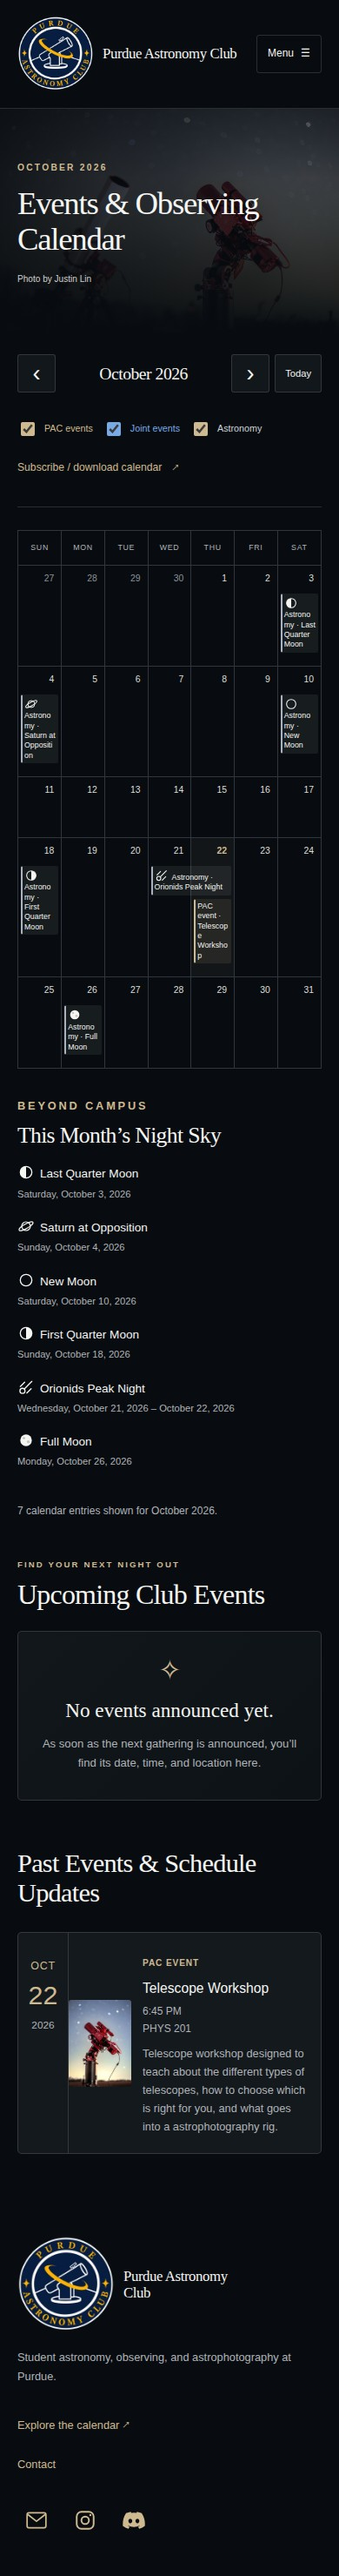
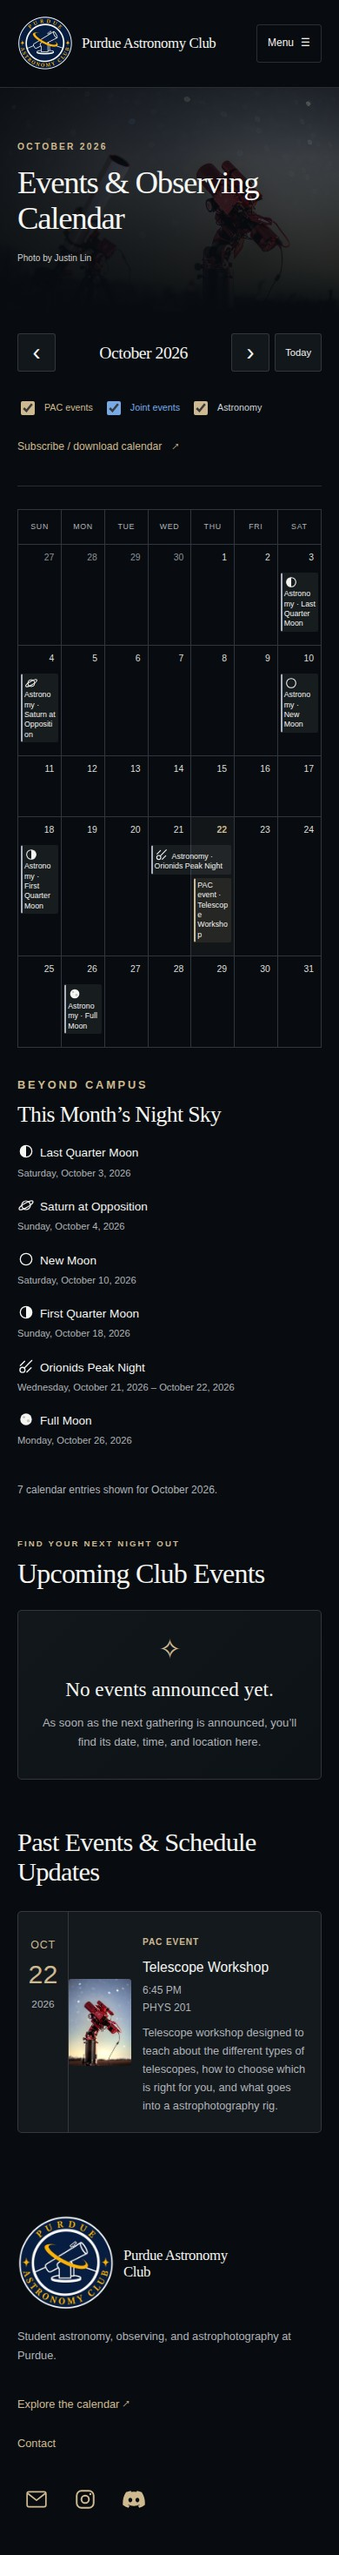
Reduce header badge and balance spacing beside club name

diff --git a/assets/css/main.css b/assets/css/main.css
@@ -1,8 +1,8 @@
 :root{--bg:#080c10;--surface:#12171c;--card:#14191e;--text:#f5f5f2;--muted:#b0b3b8;--gold:#cfb991;--border:rgba(255,255,255,.14);--blue:#78aae8;--serif:Georgia,'Times New Roman',serif;--sans:Inter,-apple-system,BlinkMacSystemFont,'Segoe UI',sans-serif;color-scheme:dark}
-*{box-sizing:border-box}html{scroll-behavior:smooth;scroll-padding-top:24px}body{margin:0;background:var(--bg);color:var(--text);font:16px/1.65 var(--sans);overflow-wrap:break-word}a{color:var(--gold);text-decoration:none;text-underline-offset:5px}a:hover{text-decoration:underline}button,input{font:inherit}button,a{touch-action:manipulation}button{cursor:pointer}button:disabled{cursor:default}button{color:var(--text)}img{display:block;max-width:100%;height:auto}svg{display:block;width:100%;height:100%}h1,h2,h3,p,figure{margin:0}h1,h2,h3{line-height:1.12;font-weight:400}h1,h2{font-family:var(--serif)}h1{font-size:clamp(2.5rem,5.2vw,5rem);letter-spacing:-.035em}h2{font-size:clamp(1.9rem,3vw,2.65rem);letter-spacing:-.025em}h3{font-size:1.15rem;line-height:1.35}p{color:var(--muted)}[hidden]{display:none!important}:focus-visible{outline:2px solid var(--gold);outline-offset:5px;border-radius:2px}::selection{background:var(--gold);color:var(--bg)}.container{width:min(1280px,calc(100% - 96px));margin-inline:auto}.section{padding-top:72px;padding-bottom:72px}.eyebrow{text-transform:uppercase;color:var(--gold);font-size:.71rem;font-weight:600;letter-spacing:.22em}.muted{color:var(--muted)}.lead{font-size:1.2rem;max-width:690px;line-height:1.7}.text-link{font-size:.88rem;display:inline-flex;align-items:center;gap:12px;min-height:44px}.button-row{display:flex;flex-wrap:wrap;gap:16px}.button{min-height:48px;display:inline-flex;align-items:center;justify-content:center;gap:18px;padding:12px 23px;background:var(--gold);border:1px solid var(--gold);color:#080c10;font-size:.87rem;font-weight:600;border-radius:3px;text-align:center}.button:hover{background:#e0cba4;text-decoration:none}.button-outline{background:transparent;color:var(--text);border-color:var(--gold)}.button-outline:hover{background:rgba(207,185,145,.1)}.sr-only{position:absolute;width:1px;height:1px;padding:0;margin:-1px;overflow:hidden;clip:rect(0,0,0,0);white-space:nowrap;border:0}.skip-link{position:fixed;top:-100px;left:20px;background:var(--gold);color:var(--bg);padding:12px 24px;z-index:100}.skip-link:focus{top:12px}.site-header{position:relative;z-index:5;border-bottom:1px solid var(--border);background:#080c10}.home .site-header{background:transparent;border-color:rgba(255,255,255,.09)}.header-inner{min-height:92px;display:flex;align-items:center;justify-content:space-between;gap:24px}.brand{display:flex;align-items:center;gap:15px;color:var(--text);font:1.42rem/1.15 var(--serif);letter-spacing:-.025em}.brand:hover{text-decoration:none}.brand-mark{display:block;flex:none;width:88px;height:88px}.brand-mark img{width:100%;height:100%;object-fit:contain}#main-nav{display:flex;gap:30px}#main-nav a{display:flex;align-items:center;min-height:44px;font-size:.88rem;color:#e9e9e5}#main-nav a[aria-current]{color:var(--gold);text-decoration:underline}.menu-toggle{background:none;border:1px solid var(--border);border-radius:3px;padding:8px 12px;min-height:44px}.hero{position:relative;isolation:isolate;margin-top:-93px;min-height:690px;padding-top:93px;display:flex;align-items:center}.hero-image,.hero-shade{position:absolute;inset:0;width:100%;height:100%;z-index:-2}.hero-image{object-fit:cover;object-position:68% center}.hero-shade{z-index:-1;background:linear-gradient(90deg,rgba(4,8,11,.6),rgba(4,8,11,.1) 62%),linear-gradient(0deg,#080c10,transparent 18%)}.hero-content{padding-top:46px;padding-bottom:68px}.gold-rule{display:block;height:1px;width:35px;background:var(--gold);margin-bottom:25px}.hero .eyebrow{letter-spacing:.39em;font-size:.71rem;margin-bottom:20px}.hero h1{max-width:620px;font-size:clamp(3.3rem,5.4vw,5rem);line-height:1.04}.hero .button-row{margin-top:30px}.club-intro{padding-block:48px 40px;border-bottom:1px solid var(--border)}.club-intro h2{font-size:clamp(1.7rem,3vw,2.2rem);margin-bottom:22px}.club-description{display:grid;grid-template-columns:repeat(3,minmax(0,1fr));gap:24px 36px;font-size:.94rem;line-height:1.75}.club-description>p:first-child{grid-column:1/-1;max-width:900px;font-size:1.12rem;color:var(--text)}.club-description>p:not(:first-child){padding-top:18px;border-top:1px solid var(--border)}.club-intro+#upcoming-events{padding-top:48px}.hero-note{position:absolute;right:48px;bottom:22px;font-size:.62rem;letter-spacing:.08em;color:#c6c8cc}.activities{display:grid;grid-template-columns:repeat(4,1fr);border-bottom:1px solid var(--border);padding:30px 0 38px}.activities>div{text-align:center;border-right:1px solid var(--border);padding:0 14px}.activities>div:last-child{border:0}.activities svg{width:39px;height:39px;color:var(--gold);margin:0 auto 13px}.activities h2{font:500 1rem/1.4 var(--sans);letter-spacing:0}.activities p{font-size:.8rem;margin-top:5px}.section-heading{display:flex;align-items:end;justify-content:space-between;gap:24px;margin-bottom:28px}.section-heading .eyebrow{margin-bottom:9px}.section-heading>a{flex:none}.empty-state{border:1px solid var(--border);border-radius:5px;background:linear-gradient(135deg,#12171c,#0d1216);padding:37px;text-align:center}.empty-star{display:block;color:var(--gold);font-size:32px;line-height:1;margin-bottom:15px}.empty-state h3{font-family:var(--serif);font-size:1.6rem}.empty-state p{max-width:530px;font-size:.91rem;margin:12px auto 3px}.empty-state .text-link{margin-top:7px}.event-grid{display:grid;grid-template-columns:repeat(3,minmax(0,1fr));gap:20px}.event-card{position:relative;display:flex;align-items:stretch;border:1px solid var(--border);background:var(--card);border-radius:5px;overflow:hidden;min-height:180px}.event-date{width:65px;flex:none;border-right:1px solid var(--border);padding:27px 8px;text-align:center;line-height:1.25}.event-date span:first-child{color:var(--gold);text-transform:uppercase;font-size:.78rem;letter-spacing:.06em}.event-date strong{display:block;font-size:1.9rem;font-weight:500;color:var(--gold);margin:5px 0}.event-date span:last-child{color:var(--muted);font-size:.74rem}.event-card-body{padding:22px 18px}.event-card h3{font-size:.98rem;margin:7px 0}.event-card h3 a{color:var(--text)}.event-card-body>p{font-size:.8rem;margin-top:7px}.event-card-body .event-meta{font-size:.75rem}.tag{color:var(--gold);font-size:.63rem;text-transform:uppercase;letter-spacing:.09em;font-weight:600}.event-cover{display:none}.type-joint .tag,.type-joint.eyebrow{color:var(--blue)}.type-astronomy .tag,.type-astronomy.eyebrow{color:#cdd3db}.gallery-feature{background:#10151a;border-top:1px solid var(--border);border-bottom:1px solid var(--border)}.gallery-empty{display:flex;align-items:center;gap:60px;min-height:245px;max-width:850px;margin:auto}.gallery-empty h3{font:2.5rem/1.2 var(--serif);margin:10px 0 14px;letter-spacing:-.02em}.gallery-empty p:not(.eyebrow){font-size:.9rem;max-width:410px}.orbital{width:150px;height:150px;border:1px solid #776e5a;border-radius:50%;flex:none;position:relative;transform:rotate(-25deg)}.orbital:before{content:'';position:absolute;inset:30px -28px;border:1px solid #776e5a;border-radius:50%}.orbital:after{content:'✦';color:var(--gold);position:absolute;top:42px;left:47px;font-size:43px}.gallery-grid{display:grid;grid-template-columns:repeat(3,minmax(0,1fr));gap:24px}.gallery-card{min-width:0;background:var(--surface);border:1px solid var(--border);border-radius:4px;overflow:hidden}.gallery-card img{width:100%;aspect-ratio:4/3;object-fit:cover}.gallery-card a{display:block;color:var(--text)}.gallery-card a:hover{text-decoration:none}.gallery-card a:hover h3{text-decoration:underline}.gallery-caption{padding:22px}.gallery-caption .eyebrow{font-size:.6rem;letter-spacing:.15em}.gallery-caption h3{font-family:var(--serif);font-size:1.5rem;margin:8px 0}.gallery-caption h3 span{float:right}.gallery-caption p{font-size:.8rem}.site-footer{padding:50px 0 0}.footer-main{display:flex;justify-content:space-between;gap:35px;padding-bottom:42px}.footer-main p{font-size:.8rem;margin-top:17px;max-width:330px}.footer-links{display:flex;flex-direction:column;align-items:flex-end;gap:6px;font-size:.8rem}.footer-links a{min-height:32px}.footer-bottom{border-top:1px solid var(--border);display:flex;justify-content:space-between;font-size:.68rem;color:#969ba2;padding:20px 0 25px}.page-shell{min-height:60vh;padding-top:26px;padding-bottom:80px}.breadcrumbs{display:flex;gap:10px;font-size:.72rem;color:var(--muted);margin-bottom:50px}.breadcrumbs a{color:var(--muted)}.page-heading{margin-bottom:44px}.page-heading h1{margin:14px 0 23px}.page-heading .button{margin-top:25px}.prose{max-width:760px}.prose p{margin-bottom:1.3em}.prose h2{font-size:2rem;margin:1.4em 0 .6em}.prose h3{margin:1.4em 0 .6em}.prose ul,.prose ol{padding-left:22px;color:var(--muted)}.prose img{width:100%;border-radius:4px}.prose a{text-decoration:underline}.social-links{display:flex;flex-wrap:wrap;gap:12px;margin-top:28px}.social-link{display:inline-flex;align-items:center;justify-content:center;width:44px;height:44px;color:var(--gold)}.social-link svg{width:26px;height:26px}.social-link:hover{color:var(--text)}.footer-links .social-links{margin-top:8px}.footer-links .social-link{min-height:44px}.plain-card,.officer-card{border:1px solid var(--border);padding:30px;border-radius:4px;background:var(--surface)}.card-grid{display:grid;grid-template-columns:repeat(3,minmax(0,1fr));gap:24px}.plain-card img{width:100%;max-height:200px;object-fit:contain}.officer-card img{aspect-ratio:1;object-fit:cover;width:100%;margin-bottom:25px}.officer-card h2{font-size:1.9rem;margin:10px 0 20px}.officer-card h2 a{color:var(--text)}.news-row{padding:30px 0;border-bottom:1px solid var(--border)}.news-row time{font-size:.75rem;color:var(--gold)}.news-row h2,.news-row h3{margin:12px 0}.photo-grid{columns:2;column-gap:24px}.photo-grid figure{break-inside:avoid;margin-bottom:30px}.photo-grid img{width:100%;border-radius:4px}.photo-grid figcaption{padding:12px 0;font-size:.9rem}.photo-grid figcaption span{font-size:.75rem;color:var(--muted)}.astro-showcase img{width:100%;max-height:750px;object-fit:contain;background:#030507}.astro-showcase figcaption{margin-top:15px;color:var(--muted)}.detail-layout{display:grid;grid-template-columns:1fr 330px;gap:60px;margin-top:40px}.event-detail-heading{max-width:850px}.event-detail-heading h1{margin:15px 0 25px}.detail-facts{padding:27px;background:var(--surface);border:1px solid var(--border);border-radius:4px;align-self:start}.detail-facts h2{font-size:1.65rem}.detail-facts dt{text-transform:uppercase;letter-spacing:.13em;font-size:.63rem;color:var(--gold);margin-top:23px}.detail-facts dd{margin:4px 0;font-size:.9rem}.detail-facts .button{margin-top:16px;width:100%}.detail-facts p{font-size:.78rem;margin-top:16px}.detail-image{border-radius:4px;margin-top:25px;width:100%}.status-notice{padding:18px 22px;margin-top:25px;background:var(--surface);border-left:3px solid var(--gold)}.status-cancelled{opacity:.8}.status-cancelled .tag{color:#eab2a7}.archive-heading{margin-top:55px;margin-bottom:28px}.lightbox{max-width:min(1100px,94vw);max-height:94vh;background:var(--bg);color:var(--text);border:1px solid var(--border);padding:20px}.lightbox::backdrop{background:rgba(0,0,0,.9)}.lightbox img{max-height:73vh;object-fit:contain;margin:auto}.lightbox button{background:var(--surface);border:1px solid var(--border);min-height:44px;padding:8px 18px;display:block;margin:0 0 12px auto}.lightbox p{padding-top:12px;font-size:.85rem}.calendar-banner{position:relative;isolation:isolate;min-height:300px;display:flex;align-items:center;overflow:hidden}.calendar-banner>img,.calendar-banner-shade{position:absolute;inset:0;width:100%;height:100%;object-fit:cover;object-position:68% 45%;z-index:-2}.calendar-banner-shade{z-index:-1;background:linear-gradient(90deg,rgba(8,12,16,.85),rgba(8,12,16,.38)),linear-gradient(0deg,#080c10,transparent 70%)}.calendar-banner .container{padding-top:44px;padding-bottom:44px}.calendar-banner h1{font-size:clamp(2rem,3.5vw,3.3rem);max-width:750px;margin:11px 0 15px}.calendar-banner p{font-size:.9rem}.calendar-banner .eyebrow{font-size:.72rem}.calendar-banner .photo-credit{font-size:.63rem;color:#d0d0cc;margin-top:18px}.calendar-content{padding-top:28px}.calendar-toolbar,.month-navigation,.view-controls{display:flex;align-items:center;gap:10px}.calendar-toolbar{justify-content:space-between;flex-wrap:wrap;margin-bottom:20px}.calendar-toolbar button{min-width:44px;min-height:44px;padding:7px 13px;background:var(--surface);border:1px solid var(--border);border-radius:3px;font-size:.82rem}.calendar-toolbar button:hover{border-color:var(--gold)}.month-navigation h2{font:1.5rem var(--serif);min-width:200px;text-align:center}.month-navigation>button:first-child,.month-navigation>button:nth-child(3){font-size:1.7rem;line-height:1}.view-controls{gap:0}.view-controls button[aria-pressed=true]{background:var(--gold);color:var(--bg)}.calendar-topline{display:flex;align-items:center;justify-content:space-between;gap:15px;flex-wrap:wrap;padding-bottom:23px;border-bottom:1px solid var(--border);margin-bottom:26px}.calendar-filters{border:0;margin:0;padding:0;display:flex;gap:23px;flex-wrap:wrap}.calendar-filters label{font-size:.76rem;min-height:44px;display:flex;align-items:center;gap:8px;cursor:pointer;color:var(--gold)}.calendar-filters .type-joint{color:var(--blue)}.calendar-filters .type-astronomy{color:#cdd3db}.calendar-filters input{width:16px;height:16px;accent-color:var(--gold)}.calendar-filters .type-joint input{accent-color:var(--blue)}.subscribe-link{font-size:.76rem}.calendar-layout{display:grid;grid-template-columns:260px minmax(0,1fr);gap:32px}.calendar-sidebar section+section{margin-top:35px;padding-top:28px;border-top:1px solid var(--border)}.calendar-sidebar h2{font-size:1.6rem;margin:10px 0 18px}.calendar-sidebar p{font-size:.8rem}.calendar-sidebar ul{list-style:none;padding:0;margin:0}.calendar-sidebar li{margin-bottom:18px}.calendar-sidebar li a{display:block;font-size:.85rem;color:var(--text);line-height:1.4}.calendar-sidebar li small{font-size:.7rem;color:var(--muted);display:block;margin-top:4px}.calendar-sidebar .tag{font-size:.59rem}.calendar-sidebar .sky-editorial{white-space:pre-line;margin:15px 0}.calendar-status{font-size:.8rem;color:var(--muted);margin-top:20px}.calendar-help{font-size:.69rem;margin-top:28px;padding-top:18px;border-top:1px solid var(--border)}.calendar-no-events{padding:30px 20px;text-align:center;border:1px solid var(--border)}#calendar{min-width:0;--fc-border-color:#30363d;--fc-page-bg-color:var(--bg);--fc-neutral-bg-color:var(--surface);--fc-today-bg-color:rgba(207,185,145,.06);--fc-list-event-hover-bg-color:var(--card);--fc-event-bg-color:var(--card);--fc-event-border-color:transparent;--fc-event-text-color:var(--text);font-size:.8rem}#calendar .fc-col-header-cell-cushion{font-weight:400;font-size:.7rem;text-transform:uppercase;letter-spacing:.08em;padding:12px 0;color:var(--muted)}#calendar .fc-daygrid-day-number{color:#deded8;padding:6px 8px;font-size:.75rem}#calendar .fc-day-today .fc-daygrid-day-number{color:var(--gold);font-weight:700}#calendar .fc-daygrid-event{border-radius:2px;padding:3px 5px;font-size:.66rem;line-height:1.3;margin:2px 3px;background:rgba(207,185,145,.1);border-left:2px solid var(--gold);white-space:normal;color:var(--gold)}#calendar .fc-event-title{white-space:normal}#calendar .fc-daygrid-event-dot{display:none}#calendar .fc-type-joint{color:var(--blue);border-left-color:var(--blue);background:rgba(120,170,232,.1)}#calendar .fc-type-astronomy{color:#cdd3db;border-left-color:#a9b2be;background:rgba(205,211,219,.08)}#calendar .fc-status-cancelled,#calendar .fc-status-postponed{opacity:.65;text-decoration:line-through}#calendar .fc-daygrid-more-link{font-size:.65rem;padding:3px;color:var(--gold)}#calendar .fc-popover{background:var(--surface);border:1px solid var(--border);max-width:300px}#calendar .fc-popover-header{background:var(--card)}#calendar .fc-list-day-cushion{background:var(--surface);color:var(--text)}#calendar .fc-list-event-title{color:var(--text)}#calendar .fc-list-event-time{max-width:150px;white-space:normal}#calendar .fc-list-event-dot{border-color:var(--gold)}#calendar .fc-list-event.fc-type-joint .fc-list-event-dot{border-color:var(--blue)}#calendar .fc-list-event.fc-type-astronomy .fc-list-event-dot{border-color:#cdd3db}#calendar .fc-list-empty{background:var(--surface);font-size:.85rem}#calendar .fc-list-event-title a{display:block;min-height:44px;padding:6px 0}.fc-description{display:block;font-size:.69rem;font-weight:400;color:var(--muted);margin-top:5px}.agenda-fallback{margin-top:22px}.fallback-event{display:grid;grid-template-columns:230px 1fr;gap:20px;border-bottom:1px solid var(--border);padding:22px 0}.fallback-event>time{font-size:.85rem;color:var(--gold)}.fallback-event h3{margin:8px 0}.fallback-event p{font-size:.85rem}body.poster .site-header,body.poster .site-footer,body.poster .calendar-toolbar,body.poster .calendar-topline,body.poster .calendar-help{display:none}body.poster .calendar-banner{min-height:230px}body.poster .calendar-layout{grid-template-columns:280px minmax(0,1fr)}body.poster .container{width:calc(100% - 100px);max-width:none}body.poster .calendar-sidebar{font-size:1rem}body.poster #calendar{font-size:1rem}body.poster .calendar-content{padding-bottom:35px}
+*{box-sizing:border-box}html{scroll-behavior:smooth;scroll-padding-top:24px}body{margin:0;background:var(--bg);color:var(--text);font:16px/1.65 var(--sans);overflow-wrap:break-word}a{color:var(--gold);text-decoration:none;text-underline-offset:5px}a:hover{text-decoration:underline}button,input{font:inherit}button,a{touch-action:manipulation}button{cursor:pointer}button:disabled{cursor:default}button{color:var(--text)}img{display:block;max-width:100%;height:auto}svg{display:block;width:100%;height:100%}h1,h2,h3,p,figure{margin:0}h1,h2,h3{line-height:1.12;font-weight:400}h1,h2{font-family:var(--serif)}h1{font-size:clamp(2.5rem,5.2vw,5rem);letter-spacing:-.035em}h2{font-size:clamp(1.9rem,3vw,2.65rem);letter-spacing:-.025em}h3{font-size:1.15rem;line-height:1.35}p{color:var(--muted)}[hidden]{display:none!important}:focus-visible{outline:2px solid var(--gold);outline-offset:5px;border-radius:2px}::selection{background:var(--gold);color:var(--bg)}.container{width:min(1280px,calc(100% - 96px));margin-inline:auto}.section{padding-top:72px;padding-bottom:72px}.eyebrow{text-transform:uppercase;color:var(--gold);font-size:.71rem;font-weight:600;letter-spacing:.22em}.muted{color:var(--muted)}.lead{font-size:1.2rem;max-width:690px;line-height:1.7}.text-link{font-size:.88rem;display:inline-flex;align-items:center;gap:12px;min-height:44px}.button-row{display:flex;flex-wrap:wrap;gap:16px}.button{min-height:48px;display:inline-flex;align-items:center;justify-content:center;gap:18px;padding:12px 23px;background:var(--gold);border:1px solid var(--gold);color:#080c10;font-size:.87rem;font-weight:600;border-radius:3px;text-align:center}.button:hover{background:#e0cba4;text-decoration:none}.button-outline{background:transparent;color:var(--text);border-color:var(--gold)}.button-outline:hover{background:rgba(207,185,145,.1)}.sr-only{position:absolute;width:1px;height:1px;padding:0;margin:-1px;overflow:hidden;clip:rect(0,0,0,0);white-space:nowrap;border:0}.skip-link{position:fixed;top:-100px;left:20px;background:var(--gold);color:var(--bg);padding:12px 24px;z-index:100}.skip-link:focus{top:12px}.site-header{position:relative;z-index:5;border-bottom:1px solid var(--border);background:#080c10}.home .site-header{background:transparent;border-color:rgba(255,255,255,.09)}.header-inner{min-height:92px;display:flex;align-items:center;justify-content:space-between;gap:24px}.brand{display:flex;align-items:center;gap:15px;color:var(--text);font:1.42rem/1.15 var(--serif);letter-spacing:-.025em}.brand:hover{text-decoration:none}.brand-mark{display:block;flex:none;width:64px;height:64px}.brand-mark img{width:100%;height:100%;object-fit:contain}#main-nav{display:flex;gap:30px}#main-nav a{display:flex;align-items:center;min-height:44px;font-size:.88rem;color:#e9e9e5}#main-nav a[aria-current]{color:var(--gold);text-decoration:underline}.menu-toggle{background:none;border:1px solid var(--border);border-radius:3px;padding:8px 12px;min-height:44px}.hero{position:relative;isolation:isolate;margin-top:-93px;min-height:690px;padding-top:93px;display:flex;align-items:center}.hero-image,.hero-shade{position:absolute;inset:0;width:100%;height:100%;z-index:-2}.hero-image{object-fit:cover;object-position:68% center}.hero-shade{z-index:-1;background:linear-gradient(90deg,rgba(4,8,11,.6),rgba(4,8,11,.1) 62%),linear-gradient(0deg,#080c10,transparent 18%)}.hero-content{padding-top:46px;padding-bottom:68px}.gold-rule{display:block;height:1px;width:35px;background:var(--gold);margin-bottom:25px}.hero .eyebrow{letter-spacing:.39em;font-size:.71rem;margin-bottom:20px}.hero h1{max-width:620px;font-size:clamp(3.3rem,5.4vw,5rem);line-height:1.04}.hero .button-row{margin-top:30px}.club-intro{padding-block:48px 40px;border-bottom:1px solid var(--border)}.club-intro h2{font-size:clamp(1.7rem,3vw,2.2rem);margin-bottom:22px}.club-description{display:grid;grid-template-columns:repeat(3,minmax(0,1fr));gap:24px 36px;font-size:.94rem;line-height:1.75}.club-description>p:first-child{grid-column:1/-1;max-width:900px;font-size:1.12rem;color:var(--text)}.club-description>p:not(:first-child){padding-top:18px;border-top:1px solid var(--border)}.club-intro+#upcoming-events{padding-top:48px}.hero-note{position:absolute;right:48px;bottom:22px;font-size:.62rem;letter-spacing:.08em;color:#c6c8cc}.activities{display:grid;grid-template-columns:repeat(4,1fr);border-bottom:1px solid var(--border);padding:30px 0 38px}.activities>div{text-align:center;border-right:1px solid var(--border);padding:0 14px}.activities>div:last-child{border:0}.activities svg{width:39px;height:39px;color:var(--gold);margin:0 auto 13px}.activities h2{font:500 1rem/1.4 var(--sans);letter-spacing:0}.activities p{font-size:.8rem;margin-top:5px}.section-heading{display:flex;align-items:end;justify-content:space-between;gap:24px;margin-bottom:28px}.section-heading .eyebrow{margin-bottom:9px}.section-heading>a{flex:none}.empty-state{border:1px solid var(--border);border-radius:5px;background:linear-gradient(135deg,#12171c,#0d1216);padding:37px;text-align:center}.empty-star{display:block;color:var(--gold);font-size:32px;line-height:1;margin-bottom:15px}.empty-state h3{font-family:var(--serif);font-size:1.6rem}.empty-state p{max-width:530px;font-size:.91rem;margin:12px auto 3px}.empty-state .text-link{margin-top:7px}.event-grid{display:grid;grid-template-columns:repeat(3,minmax(0,1fr));gap:20px}.event-card{position:relative;display:flex;align-items:stretch;border:1px solid var(--border);background:var(--card);border-radius:5px;overflow:hidden;min-height:180px}.event-date{width:65px;flex:none;border-right:1px solid var(--border);padding:27px 8px;text-align:center;line-height:1.25}.event-date span:first-child{color:var(--gold);text-transform:uppercase;font-size:.78rem;letter-spacing:.06em}.event-date strong{display:block;font-size:1.9rem;font-weight:500;color:var(--gold);margin:5px 0}.event-date span:last-child{color:var(--muted);font-size:.74rem}.event-card-body{padding:22px 18px}.event-card h3{font-size:.98rem;margin:7px 0}.event-card h3 a{color:var(--text)}.event-card-body>p{font-size:.8rem;margin-top:7px}.event-card-body .event-meta{font-size:.75rem}.tag{color:var(--gold);font-size:.63rem;text-transform:uppercase;letter-spacing:.09em;font-weight:600}.event-cover{display:none}.type-joint .tag,.type-joint.eyebrow{color:var(--blue)}.type-astronomy .tag,.type-astronomy.eyebrow{color:#cdd3db}.gallery-feature{background:#10151a;border-top:1px solid var(--border);border-bottom:1px solid var(--border)}.gallery-empty{display:flex;align-items:center;gap:60px;min-height:245px;max-width:850px;margin:auto}.gallery-empty h3{font:2.5rem/1.2 var(--serif);margin:10px 0 14px;letter-spacing:-.02em}.gallery-empty p:not(.eyebrow){font-size:.9rem;max-width:410px}.orbital{width:150px;height:150px;border:1px solid #776e5a;border-radius:50%;flex:none;position:relative;transform:rotate(-25deg)}.orbital:before{content:'';position:absolute;inset:30px -28px;border:1px solid #776e5a;border-radius:50%}.orbital:after{content:'✦';color:var(--gold);position:absolute;top:42px;left:47px;font-size:43px}.gallery-grid{display:grid;grid-template-columns:repeat(3,minmax(0,1fr));gap:24px}.gallery-card{min-width:0;background:var(--surface);border:1px solid var(--border);border-radius:4px;overflow:hidden}.gallery-card img{width:100%;aspect-ratio:4/3;object-fit:cover}.gallery-card a{display:block;color:var(--text)}.gallery-card a:hover{text-decoration:none}.gallery-card a:hover h3{text-decoration:underline}.gallery-caption{padding:22px}.gallery-caption .eyebrow{font-size:.6rem;letter-spacing:.15em}.gallery-caption h3{font-family:var(--serif);font-size:1.5rem;margin:8px 0}.gallery-caption h3 span{float:right}.gallery-caption p{font-size:.8rem}.site-footer{padding:50px 0 0}.footer-main{display:flex;justify-content:space-between;gap:35px;padding-bottom:42px}.footer-main p{font-size:.8rem;margin-top:17px;max-width:330px}.footer-links{display:flex;flex-direction:column;align-items:flex-end;gap:6px;font-size:.8rem}.footer-links a{min-height:32px}.footer-bottom{border-top:1px solid var(--border);display:flex;justify-content:space-between;font-size:.68rem;color:#969ba2;padding:20px 0 25px}.page-shell{min-height:60vh;padding-top:26px;padding-bottom:80px}.breadcrumbs{display:flex;gap:10px;font-size:.72rem;color:var(--muted);margin-bottom:50px}.breadcrumbs a{color:var(--muted)}.page-heading{margin-bottom:44px}.page-heading h1{margin:14px 0 23px}.page-heading .button{margin-top:25px}.prose{max-width:760px}.prose p{margin-bottom:1.3em}.prose h2{font-size:2rem;margin:1.4em 0 .6em}.prose h3{margin:1.4em 0 .6em}.prose ul,.prose ol{padding-left:22px;color:var(--muted)}.prose img{width:100%;border-radius:4px}.prose a{text-decoration:underline}.social-links{display:flex;flex-wrap:wrap;gap:12px;margin-top:28px}.social-link{display:inline-flex;align-items:center;justify-content:center;width:44px;height:44px;color:var(--gold)}.social-link svg{width:26px;height:26px}.social-link:hover{color:var(--text)}.footer-links .social-links{margin-top:8px}.footer-links .social-link{min-height:44px}.plain-card,.officer-card{border:1px solid var(--border);padding:30px;border-radius:4px;background:var(--surface)}.card-grid{display:grid;grid-template-columns:repeat(3,minmax(0,1fr));gap:24px}.plain-card img{width:100%;max-height:200px;object-fit:contain}.officer-card img{aspect-ratio:1;object-fit:cover;width:100%;margin-bottom:25px}.officer-card h2{font-size:1.9rem;margin:10px 0 20px}.officer-card h2 a{color:var(--text)}.news-row{padding:30px 0;border-bottom:1px solid var(--border)}.news-row time{font-size:.75rem;color:var(--gold)}.news-row h2,.news-row h3{margin:12px 0}.photo-grid{columns:2;column-gap:24px}.photo-grid figure{break-inside:avoid;margin-bottom:30px}.photo-grid img{width:100%;border-radius:4px}.photo-grid figcaption{padding:12px 0;font-size:.9rem}.photo-grid figcaption span{font-size:.75rem;color:var(--muted)}.astro-showcase img{width:100%;max-height:750px;object-fit:contain;background:#030507}.astro-showcase figcaption{margin-top:15px;color:var(--muted)}.detail-layout{display:grid;grid-template-columns:1fr 330px;gap:60px;margin-top:40px}.event-detail-heading{max-width:850px}.event-detail-heading h1{margin:15px 0 25px}.detail-facts{padding:27px;background:var(--surface);border:1px solid var(--border);border-radius:4px;align-self:start}.detail-facts h2{font-size:1.65rem}.detail-facts dt{text-transform:uppercase;letter-spacing:.13em;font-size:.63rem;color:var(--gold);margin-top:23px}.detail-facts dd{margin:4px 0;font-size:.9rem}.detail-facts .button{margin-top:16px;width:100%}.detail-facts p{font-size:.78rem;margin-top:16px}.detail-image{border-radius:4px;margin-top:25px;width:100%}.status-notice{padding:18px 22px;margin-top:25px;background:var(--surface);border-left:3px solid var(--gold)}.status-cancelled{opacity:.8}.status-cancelled .tag{color:#eab2a7}.archive-heading{margin-top:55px;margin-bottom:28px}.lightbox{max-width:min(1100px,94vw);max-height:94vh;background:var(--bg);color:var(--text);border:1px solid var(--border);padding:20px}.lightbox::backdrop{background:rgba(0,0,0,.9)}.lightbox img{max-height:73vh;object-fit:contain;margin:auto}.lightbox button{background:var(--surface);border:1px solid var(--border);min-height:44px;padding:8px 18px;display:block;margin:0 0 12px auto}.lightbox p{padding-top:12px;font-size:.85rem}.calendar-banner{position:relative;isolation:isolate;min-height:300px;display:flex;align-items:center;overflow:hidden}.calendar-banner>img,.calendar-banner-shade{position:absolute;inset:0;width:100%;height:100%;object-fit:cover;object-position:68% 45%;z-index:-2}.calendar-banner-shade{z-index:-1;background:linear-gradient(90deg,rgba(8,12,16,.85),rgba(8,12,16,.38)),linear-gradient(0deg,#080c10,transparent 70%)}.calendar-banner .container{padding-top:44px;padding-bottom:44px}.calendar-banner h1{font-size:clamp(2rem,3.5vw,3.3rem);max-width:750px;margin:11px 0 15px}.calendar-banner p{font-size:.9rem}.calendar-banner .eyebrow{font-size:.72rem}.calendar-banner .photo-credit{font-size:.63rem;color:#d0d0cc;margin-top:18px}.calendar-content{padding-top:28px}.calendar-toolbar,.month-navigation,.view-controls{display:flex;align-items:center;gap:10px}.calendar-toolbar{justify-content:space-between;flex-wrap:wrap;margin-bottom:20px}.calendar-toolbar button{min-width:44px;min-height:44px;padding:7px 13px;background:var(--surface);border:1px solid var(--border);border-radius:3px;font-size:.82rem}.calendar-toolbar button:hover{border-color:var(--gold)}.month-navigation h2{font:1.5rem var(--serif);min-width:200px;text-align:center}.month-navigation>button:first-child,.month-navigation>button:nth-child(3){font-size:1.7rem;line-height:1}.view-controls{gap:0}.view-controls button[aria-pressed=true]{background:var(--gold);color:var(--bg)}.calendar-topline{display:flex;align-items:center;justify-content:space-between;gap:15px;flex-wrap:wrap;padding-bottom:23px;border-bottom:1px solid var(--border);margin-bottom:26px}.calendar-filters{border:0;margin:0;padding:0;display:flex;gap:23px;flex-wrap:wrap}.calendar-filters label{font-size:.76rem;min-height:44px;display:flex;align-items:center;gap:8px;cursor:pointer;color:var(--gold)}.calendar-filters .type-joint{color:var(--blue)}.calendar-filters .type-astronomy{color:#cdd3db}.calendar-filters input{width:16px;height:16px;accent-color:var(--gold)}.calendar-filters .type-joint input{accent-color:var(--blue)}.subscribe-link{font-size:.76rem}.calendar-layout{display:grid;grid-template-columns:260px minmax(0,1fr);gap:32px}.calendar-sidebar section+section{margin-top:35px;padding-top:28px;border-top:1px solid var(--border)}.calendar-sidebar h2{font-size:1.6rem;margin:10px 0 18px}.calendar-sidebar p{font-size:.8rem}.calendar-sidebar ul{list-style:none;padding:0;margin:0}.calendar-sidebar li{margin-bottom:18px}.calendar-sidebar li a{display:block;font-size:.85rem;color:var(--text);line-height:1.4}.calendar-sidebar li small{font-size:.7rem;color:var(--muted);display:block;margin-top:4px}.calendar-sidebar .tag{font-size:.59rem}.calendar-sidebar .sky-editorial{white-space:pre-line;margin:15px 0}.calendar-status{font-size:.8rem;color:var(--muted);margin-top:20px}.calendar-help{font-size:.69rem;margin-top:28px;padding-top:18px;border-top:1px solid var(--border)}.calendar-no-events{padding:30px 20px;text-align:center;border:1px solid var(--border)}#calendar{min-width:0;--fc-border-color:#30363d;--fc-page-bg-color:var(--bg);--fc-neutral-bg-color:var(--surface);--fc-today-bg-color:rgba(207,185,145,.06);--fc-list-event-hover-bg-color:var(--card);--fc-event-bg-color:var(--card);--fc-event-border-color:transparent;--fc-event-text-color:var(--text);font-size:.8rem}#calendar .fc-col-header-cell-cushion{font-weight:400;font-size:.7rem;text-transform:uppercase;letter-spacing:.08em;padding:12px 0;color:var(--muted)}#calendar .fc-daygrid-day-number{color:#deded8;padding:6px 8px;font-size:.75rem}#calendar .fc-day-today .fc-daygrid-day-number{color:var(--gold);font-weight:700}#calendar .fc-daygrid-event{border-radius:2px;padding:3px 5px;font-size:.66rem;line-height:1.3;margin:2px 3px;background:rgba(207,185,145,.1);border-left:2px solid var(--gold);white-space:normal;color:var(--gold)}#calendar .fc-event-title{white-space:normal}#calendar .fc-daygrid-event-dot{display:none}#calendar .fc-type-joint{color:var(--blue);border-left-color:var(--blue);background:rgba(120,170,232,.1)}#calendar .fc-type-astronomy{color:#cdd3db;border-left-color:#a9b2be;background:rgba(205,211,219,.08)}#calendar .fc-status-cancelled,#calendar .fc-status-postponed{opacity:.65;text-decoration:line-through}#calendar .fc-daygrid-more-link{font-size:.65rem;padding:3px;color:var(--gold)}#calendar .fc-popover{background:var(--surface);border:1px solid var(--border);max-width:300px}#calendar .fc-popover-header{background:var(--card)}#calendar .fc-list-day-cushion{background:var(--surface);color:var(--text)}#calendar .fc-list-event-title{color:var(--text)}#calendar .fc-list-event-time{max-width:150px;white-space:normal}#calendar .fc-list-event-dot{border-color:var(--gold)}#calendar .fc-list-event.fc-type-joint .fc-list-event-dot{border-color:var(--blue)}#calendar .fc-list-event.fc-type-astronomy .fc-list-event-dot{border-color:#cdd3db}#calendar .fc-list-empty{background:var(--surface);font-size:.85rem}#calendar .fc-list-event-title a{display:block;min-height:44px;padding:6px 0}.fc-description{display:block;font-size:.69rem;font-weight:400;color:var(--muted);margin-top:5px}.agenda-fallback{margin-top:22px}.fallback-event{display:grid;grid-template-columns:230px 1fr;gap:20px;border-bottom:1px solid var(--border);padding:22px 0}.fallback-event>time{font-size:.85rem;color:var(--gold)}.fallback-event h3{margin:8px 0}.fallback-event p{font-size:.85rem}body.poster .site-header,body.poster .site-footer,body.poster .calendar-toolbar,body.poster .calendar-topline,body.poster .calendar-help{display:none}body.poster .calendar-banner{min-height:230px}body.poster .calendar-layout{grid-template-columns:280px minmax(0,1fr)}body.poster .container{width:calc(100% - 100px);max-width:none}body.poster .calendar-sidebar{font-size:1rem}body.poster #calendar{font-size:1rem}body.poster .calendar-content{padding-bottom:35px}
 @media(min-width:1600px){.hero{min-height:760px}.hero-content{padding-bottom:76px}}
-@media(max-width:1100px){.container{width:calc(100% - 64px)}#main-nav{gap:20px}.brand{font-size:1.25rem}.brand-mark{width:88px;height:88px}.event-grid{grid-template-columns:repeat(2,minmax(0,1fr))}.calendar-layout{grid-template-columns:minmax(0,1fr)}.calendar-sidebar{order:2}.calendar-sidebar section+section{padding-top:0;border:0;margin-top:0}.detail-layout{gap:35px;grid-template-columns:1fr 300px}}
-@media(max-width:767px){.container{width:calc(100% - 40px)}.header-inner{min-height:80px;flex-wrap:wrap;gap:0;padding:18px 0}.brand{font-size:1.05rem;gap:10px;max-width:calc(100% - 90px)}.brand-mark{width:88px;height:88px}.menu-toggle{font-size:.75rem;display:flex;gap:8px;align-items:center}#main-nav{width:100%;flex-wrap:wrap;gap:4px 24px;margin-top:15px;padding-top:10px;border-top:1px solid var(--border)}#main-nav a{min-height:44px;font-size:.9rem}.home .site-header{background:var(--bg)}.hero{margin:0;min-height:0;padding-top:0;display:block}.hero-image{position:relative;height:auto;aspect-ratio:1.5;object-position:center;width:100%;z-index:0;object-fit:cover}.hero-shade{top:0;bottom:auto;height:33vw;max-height:220px;background:linear-gradient(0deg,#080c10,transparent 65%);z-index:1}.hero-content{position:relative;padding-top:22px;padding-bottom:45px;z-index:2}.hero .eyebrow{font-size:.58rem;letter-spacing:.25em;margin-bottom:16px}.hero h1{max-width:400px;font-size:3rem;line-height:1.04}.gold-rule{display:none}.club-intro{padding-block:32px}.club-description{grid-template-columns:1fr;gap:18px;font-size:.91rem}.club-description>p:first-child{font-size:1.03rem}.club-description>p:not(:first-child){padding-top:16px}.club-intro+#upcoming-events{padding-top:36px}.hero-note{right:20px;top:8px;bottom:auto;z-index:2;font-size:.5rem;background:#080c10b0;padding:2px 7px}.hero .button-row{gap:12px}.hero .button{padding:12px 17px;font-size:.75rem;gap:12px}.activities{grid-template-columns:repeat(2,minmax(0,1fr));padding:16px 0 22px;row-gap:27px}.activities>div:nth-child(2){border-right:0}.activities svg{width:32px;height:32px}.activities h2{font-size:.9rem}.activities p{font-size:.7rem}.section{padding-top:44px;padding-bottom:44px}.section-heading{gap:15px;align-items:start;flex-direction:column;margin-bottom:23px}.section-heading .eyebrow{font-size:.6rem}.section-heading h2{font-size:2rem}.section-heading .text-link{min-height:24px}.empty-state{padding:28px 20px}.empty-state h3{font-size:1.45rem}.empty-state p{font-size:.82rem}.event-grid{grid-template-columns:1fr}.gallery-grid{grid-template-columns:1fr}.gallery-empty{gap:26px;flex-direction:column;padding-top:22px;padding-bottom:10px;align-items:start}.gallery-empty h3{font-size:2.1rem}.orbital{width:95px;height:95px;margin:0 auto 15px}.orbital:before{inset:22px -22px}.orbital:after{font-size:30px;top:24px;left:28px}.footer-main{flex-direction:column}.footer-links{align-items:start;gap:7px}.footer-links a{min-height:38px}.footer-bottom{flex-direction:column;gap:8px;font-size:.64rem}.page-shell{padding-top:20px;padding-bottom:50px}.breadcrumbs{margin-bottom:35px;font-size:.64rem;flex-wrap:wrap}.page-heading h1{font-size:2.8rem}.lead{font-size:1.04rem}.prose{font-size:.95rem}.card-grid{grid-template-columns:1fr}.photo-grid{columns:1}.detail-layout{grid-template-columns:1fr;gap:30px}.detail-facts{order:-1}.event-detail-heading h1{font-size:2.8rem}.calendar-banner{min-height:260px}.calendar-banner>img{object-position:72% center}.calendar-banner .container{padding-top:35px;padding-bottom:30px}.calendar-banner h1{font-size:2.3rem;max-width:340px}.calendar-banner>img{opacity:.6}.calendar-banner p{font-size:.8rem;max-width:260px}.calendar-banner .eyebrow{font-size:.64rem}.calendar-content{padding-top:22px}.calendar-toolbar{gap:15px}.month-navigation{width:100%;gap:6px}.month-navigation h2{font-size:1.23rem;min-width:0;flex:1}.calendar-toolbar button{padding:7px 11px}.calendar-toolbar #today-month{font-size:.7rem;min-width:50px}.view-controls{width:100%}.view-controls button{flex:1}.calendar-filters{gap:12px}.calendar-filters label{font-size:.67rem}.calendar-topline{gap:0}.calendar-sidebar{display:block}.calendar-sidebar section+section{margin-top:25px;padding-top:25px;border-top:1px solid var(--border)}#calendar .fc-list-event td{padding:12px 5px}#calendar .fc-list-event-time{font-size:.69rem;max-width:85px}#calendar .fc-list-event-title{font-size:.8rem}#calendar .fc-list-day-cushion{font-size:.76rem}#calendar .fc-list-event-graphic{padding-left:8px;padding-right:4px}#calendar .fc-daygrid-event{font-size:.55rem;padding:2px}#calendar .fc-col-header-cell-cushion{font-size:.55rem}#calendar .fc-daygrid-day-number{font-size:.65rem}.calendar-help{font-size:.64rem}.fallback-event{grid-template-columns:1fr;gap:4px}.calendar-status{font-size:.75rem}}
+@media(max-width:1100px){.container{width:calc(100% - 64px)}#main-nav{gap:20px}.brand{font-size:1.25rem}.brand-mark{width:64px;height:64px}.event-grid{grid-template-columns:repeat(2,minmax(0,1fr))}.calendar-layout{grid-template-columns:minmax(0,1fr)}.calendar-sidebar{order:2}.calendar-sidebar section+section{padding-top:0;border:0;margin-top:0}.detail-layout{gap:35px;grid-template-columns:1fr 300px}}
+@media(max-width:767px){.container{width:calc(100% - 40px)}.header-inner{min-height:80px;flex-wrap:wrap;gap:0;padding:18px 0}.brand{font-size:1.05rem;gap:10px;max-width:calc(100% - 90px)}.brand-mark{width:64px;height:64px}.menu-toggle{font-size:.75rem;display:flex;gap:8px;align-items:center}#main-nav{width:100%;flex-wrap:wrap;gap:4px 24px;margin-top:15px;padding-top:10px;border-top:1px solid var(--border)}#main-nav a{min-height:44px;font-size:.9rem}.home .site-header{background:var(--bg)}.hero{margin:0;min-height:0;padding-top:0;display:block}.hero-image{position:relative;height:auto;aspect-ratio:1.5;object-position:center;width:100%;z-index:0;object-fit:cover}.hero-shade{top:0;bottom:auto;height:33vw;max-height:220px;background:linear-gradient(0deg,#080c10,transparent 65%);z-index:1}.hero-content{position:relative;padding-top:22px;padding-bottom:45px;z-index:2}.hero .eyebrow{font-size:.58rem;letter-spacing:.25em;margin-bottom:16px}.hero h1{max-width:400px;font-size:3rem;line-height:1.04}.gold-rule{display:none}.club-intro{padding-block:32px}.club-description{grid-template-columns:1fr;gap:18px;font-size:.91rem}.club-description>p:first-child{font-size:1.03rem}.club-description>p:not(:first-child){padding-top:16px}.club-intro+#upcoming-events{padding-top:36px}.hero-note{right:20px;top:8px;bottom:auto;z-index:2;font-size:.5rem;background:#080c10b0;padding:2px 7px}.hero .button-row{gap:12px}.hero .button{padding:12px 17px;font-size:.75rem;gap:12px}.activities{grid-template-columns:repeat(2,minmax(0,1fr));padding:16px 0 22px;row-gap:27px}.activities>div:nth-child(2){border-right:0}.activities svg{width:32px;height:32px}.activities h2{font-size:.9rem}.activities p{font-size:.7rem}.section{padding-top:44px;padding-bottom:44px}.section-heading{gap:15px;align-items:start;flex-direction:column;margin-bottom:23px}.section-heading .eyebrow{font-size:.6rem}.section-heading h2{font-size:2rem}.section-heading .text-link{min-height:24px}.empty-state{padding:28px 20px}.empty-state h3{font-size:1.45rem}.empty-state p{font-size:.82rem}.event-grid{grid-template-columns:1fr}.gallery-grid{grid-template-columns:1fr}.gallery-empty{gap:26px;flex-direction:column;padding-top:22px;padding-bottom:10px;align-items:start}.gallery-empty h3{font-size:2.1rem}.orbital{width:95px;height:95px;margin:0 auto 15px}.orbital:before{inset:22px -22px}.orbital:after{font-size:30px;top:24px;left:28px}.footer-main{flex-direction:column}.footer-links{align-items:start;gap:7px}.footer-links a{min-height:38px}.footer-bottom{flex-direction:column;gap:8px;font-size:.64rem}.page-shell{padding-top:20px;padding-bottom:50px}.breadcrumbs{margin-bottom:35px;font-size:.64rem;flex-wrap:wrap}.page-heading h1{font-size:2.8rem}.lead{font-size:1.04rem}.prose{font-size:.95rem}.card-grid{grid-template-columns:1fr}.photo-grid{columns:1}.detail-layout{grid-template-columns:1fr;gap:30px}.detail-facts{order:-1}.event-detail-heading h1{font-size:2.8rem}.calendar-banner{min-height:260px}.calendar-banner>img{object-position:72% center}.calendar-banner .container{padding-top:35px;padding-bottom:30px}.calendar-banner h1{font-size:2.3rem;max-width:340px}.calendar-banner>img{opacity:.6}.calendar-banner p{font-size:.8rem;max-width:260px}.calendar-banner .eyebrow{font-size:.64rem}.calendar-content{padding-top:22px}.calendar-toolbar{gap:15px}.month-navigation{width:100%;gap:6px}.month-navigation h2{font-size:1.23rem;min-width:0;flex:1}.calendar-toolbar button{padding:7px 11px}.calendar-toolbar #today-month{font-size:.7rem;min-width:50px}.view-controls{width:100%}.view-controls button{flex:1}.calendar-filters{gap:12px}.calendar-filters label{font-size:.67rem}.calendar-topline{gap:0}.calendar-sidebar{display:block}.calendar-sidebar section+section{margin-top:25px;padding-top:25px;border-top:1px solid var(--border)}#calendar .fc-list-event td{padding:12px 5px}#calendar .fc-list-event-time{font-size:.69rem;max-width:85px}#calendar .fc-list-event-title{font-size:.8rem}#calendar .fc-list-day-cushion{font-size:.76rem}#calendar .fc-list-event-graphic{padding-left:8px;padding-right:4px}#calendar .fc-daygrid-event{font-size:.55rem;padding:2px}#calendar .fc-col-header-cell-cushion{font-size:.55rem}#calendar .fc-daygrid-day-number{font-size:.65rem}.calendar-help{font-size:.64rem}.fallback-event{grid-template-columns:1fr;gap:4px}.calendar-status{font-size:.75rem}}
 @media(prefers-reduced-motion:reduce){html{scroll-behavior:auto}*,*:before,*:after{transition:none!important;animation:none!important}}
 @media print{@page{size:A4 landscape;margin:8mm}.site-header,.site-footer,.calendar-toolbar,.calendar-topline,.calendar-help,.skip-link{display:none!important}body{print-color-adjust:exact;-webkit-print-color-adjust:exact}.container{width:100%}.calendar-banner{min-height:160px}.calendar-banner h1{font-size:26px}.calendar-layout{grid-template-columns:220px 1fr;gap:20px}.calendar-sidebar{display:block}.calendar-sidebar section+section{margin-top:20px}.fc{break-inside:avoid}}
 .photo-prep-tool{max-width:760px}.photo-prep-tool input{display:block;width:100%;margin-top:16px;font-size:.85rem}.photo-prep-tool label{font-weight:600}.photo-prep-tool p{margin-top:18px}

diff --git a/tests/e2e/project-path.spec.js b/tests/e2e/project-path.spec.js
@@ -55,7 +55,7 @@ test('a GitHub Pages project path loads styles, photos, calendar data and intern
     await page.setViewportSize({width: 1440, height: 1000});
     await page.goto(base);
     await expect(page.locator('body')).toHaveCSS('background-color', 'rgb(8, 12, 16)');
-    await expect(page.locator('.brand-mark').first()).toHaveCSS('width', '88px');
+    await expect(page.locator('.brand-mark').first()).toHaveCSS('width', '64px');
     await page.locator('.brand-mark img').evaluateAll(images => Promise.all(images.map(img => img.decode())));
     await page.locator('.hero-image').evaluate(img => img.decode());
     if (browserName === 'chromium') await page.screenshot({path: 'docs/screenshots/project-home-desktop.jpg', type: 'jpeg', quality: 90});

diff --git a/docs/LOGO_ASSET.md b/docs/LOGO_ASSET.md
@@ -4,7 +4,7 @@ The supplied JPEG is 170 × 170 pixels. The replacement is a 1254 × 1254 transp
 
 Master: `assets/images/purdue-astronomy-club.png`. A standalone copy is saved as `/home/sam/Downloads/pac-high-resolution.png`.
 
-Hugo creates 128, 256, and 512 pixel PNG variants for the website and separate 64 pixel favicon and 180 pixel touch icon. File names include content hashes so updated images receive new addresses. The header badge is displayed at 88 pixels and the footer badge at 112 pixels to give the curved lettering more space.
+Hugo creates 128, 256, and 512 pixel PNG variants for the website and separate 64 pixel favicon and 180 pixel touch icon. File names include content hashes so updated images receive new addresses. The header badge is displayed at 64 pixels and the footer badge at 112 pixels to give the curved lettering more space.
 
 ## Final edit prompt
 
